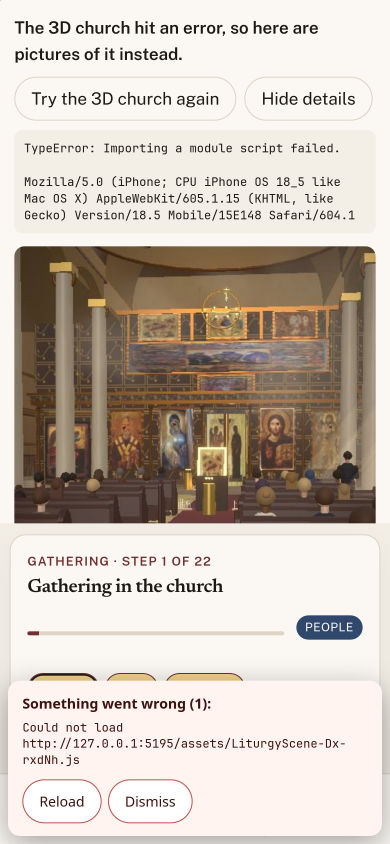
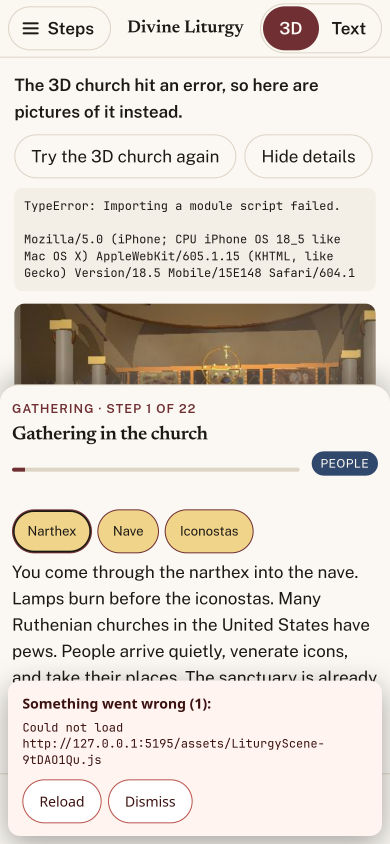
Docs and screenshots for the phone sheet layout (Pass 10) and npm run phone:touch

diff --git a/docs/ITERATION_LOG.md b/docs/ITERATION_LOG.md
@@ -276,8 +276,53 @@ are pixel-identical to main, and `npm run perf` gives main's draw calls and tria
 Splitting the icons into their own Suspense boundary had first cost 115 desktop shadow casters; the
 pass that flags shadows now runs again when the icons and frescoes arrive.
 
-Pictures in `docs/iterations/mobile/`: `before-load-10s.jpg` and `before-step-01.jpg` (main),
-`after-load-1.5s.jpg`, `after-step-01.jpg`, `after-step-06.jpg`, `after-step-13.jpg`,
-`after-step-19.jpg`, `after-free-look.jpg`, `after-text-panel.jpg`, the fault cases
-(`fault-no-webgl.jpg`, `fault-chunk-blocked.jpg`, `fault-runtime-error.jpg`, `fault-context-lost.jpg`)
-and `debug.jpg`.
+The phone layout described here was replaced in Pass 10; `before-load-10s.jpg` and `before-step-01.jpg`
+in `docs/iterations/mobile/` are main, the rest show the Pass 10 layout.
+
+## Pass 10: the church with the words over it
+
+Reported from the phone: the page opened into the 3D church, a finger on it would not scroll, and the
+Next button and the navigation could not be reached. The Pass 9 layout (church at 62% of the height,
+words under it) still made the page scroll past the picture to read and navigate.
+
+- The 3D view is the screen under a top bar: the church fills it, and the step's words sit in a sheet
+  over its bottom edge (`after-step-01.jpg`). Back, Next, and the step title are the sheet's bottom row,
+  under the thumb; tapping the title closes the words to that one row (`after-sheet-closed.jpg`). The
+  words scroll inside the sheet.
+- The top bar is outside the picture, so it never turns the view: **Steps** opens every step by part of
+  the Liturgy plus links to the 3D church, the step's words, the places, and About
+  (`after-steps-menu.jpg`); **3D / Text** switches to an ordinary scrolling page of words, places and
+  outline with Back and Next fixed at the bottom (`after-text-view.jpg`, `after-text-scrolled.jpg`). In
+  Text the church stays loaded but stops drawing.
+- The picture is the one drag area (`touch-action: none` only there). In Follow liturgy a finger now
+  looks around from the camera, and Next turns the view back to the step (`after-drag-to-look.jpg`); a
+  hint says so until the first touch. Mouse drags are unchanged. Free look walks as before, with the
+  joystick above the bar (`after-free-look.jpg`).
+- Nothing locks the body: the 3D view is exactly one screen tall; the sheet and the menu scroll
+  themselves with `overscroll-behavior: contain`. Expand is gone on phones, since the 3D view is already
+  full screen; desktops keep it.
+- Every control is at least 44 px (Back and Next 52 px), and the bar, the sheet and the menu pad for the
+  notch, the home indicator and the sides in landscape (`after-landscape.jpg`).
+- Found on the way: on narrow screens `.stage-body` is a flex column that aligned its children to the
+  start, so once the church panel held only positioned children it shrank to 0 px wide. The canvas hid
+  it; the no-WebGL fallback showed a blank area until the column was stretched.
+
+`npm run phone:touch` checks this with touches (33 checks, all pass): in Chromium through DevTools touch
+events, which go through `touch-action` and scrolling as a finger does, it drags the church and then
+taps Next, drags from the church onto the sheet and taps Next, swipes the sheet, the menu and the Text
+view, and checks that the body never locks, that every control is on screen and on top, and that
+landscape keeps Next and Steps reachable; WebKit repeats the taps and takes the screenshots.
+
+| iPhone profile, Fast 3G | main | Pass 9 | Pass 10 |
+| --- | --- | --- | --- |
+| first content | 10.1 s | 1.8 s | 1.8 s |
+| tap on Next answered | 27.9 s | 3.0 s | 2.1 to 5.2 s |
+| first 3D frame | 13.0 s | 5.0 s | 5.1 s |
+| scene ready | 27.3 s | 10.1 s | 10.0 s |
+| JS sent | 1509 KB | 371 KB | 373 KB |
+| fps (WebKit, host GPU) | 16.4 | 20.3 | 15.0 |
+
+The tap is answered in 14 ms once dispatched; when it lands depends on when the 3D chunk is being parsed,
+which varied between runs. The frame rate is lower because the church now covers the whole screen (585×1179
+drawing pixels against 585×784). Desktop is unchanged: `npm run perf` gives the same 446 / 195 / 314 draw
+calls, and the desktop page keeps its header pager, side list and Expand.

diff --git a/docs/TEST_LAB.md b/docs/TEST_LAB.md
@@ -17,6 +17,7 @@ npx playwright install chromium webkit   # once; WebKit is only for the phone ch
 | `npm run peek` | One-off captures from any camera position, for close inspection |
 | `npm run perf` | Production build, then load time and FPS against budgets |
 | `npm run phone` | The real page as an iPhone over Fast 3G: load milestones, bytes, fps, screenshots |
+| `npm run phone:touch` | Real touches on the phone layout: drag the church, then reach Next, the sheet, the menu, Text |
 | `npm run phone:faults` | No WebGL, blocked chunks, errors, lost context: each must show words, not a blank page |
 | `npm run stills` / `npm run small-art` | Regenerate the fallback pictures and the phones' half-size art |
 | `npm run check` | Type check, unit tests, production build (the gate before a commit) |
@@ -163,6 +164,13 @@ npm run phone -- --dist=.tmp/base-dist --gzip=0 --label=baseline   # an older bu
 `npm run phone:faults` breaks the page on purpose in WebKit at 390×844: no WebGL2, the 3D chunk blocked,
 the main script blocked, a thrown runtime error, a lost WebGL context, and `?debug=1`. Each case must end
 in readable words on screen and exits 1 if one does not.
+
+`npm run phone:touch` drives the phone layout with touches and exits 1 if a check fails: in Chromium it
+sends DevTools touch events (they go through `touch-action` and scrolling like a finger), drags the church
+and then taps Next, drags onto the sheet, swipes the sheet, the Steps menu and the Text view, and checks
+that the body never locks scrolling, that each control is on screen, on top, and at least 44 px, and that
+landscape keeps Next and Steps reachable. WebKit, which has no touch-move API, repeats the taps and takes
+the screenshots in `qa/phone/<stamp>-touch/`.
 
 ### What the emulation cannot prove
 

diff --git a/README.md b/README.md
@@ -51,7 +51,7 @@ Service name `lojo-byzantine-liturgy-viz`, region `us-central1`, minimum instanc
 - Gold light on the floor marks the places for the current step. Click a floor, or its name under the view, to read what that place is.
 - During the Little Entrance the deacon carries the Gospel book out the north deacon door, through the nave, and back through the Royal Doors. During the Great Entrance the deacon leads and the priest follows with the gifts from the table of preparation to the altar. A path on the floor shows the route.
 
-- On a phone the church sits above the step text, and **Back** and **Next** stay at the bottom of the screen. The page scrolls over the church while you follow the liturgy; in Free look the church takes the touches. **Expand** makes the church fill the screen.
+- On a phone the church fills the screen and the step's words sit in a sheet over its bottom edge, with **Back** and **Next** under your thumb. Tap the step title to close the words to one row, or open them again. Drag the church to look around; **Next** turns the view back to the step. The top bar has **Steps** (every step, plus the page's sections) and **3D / Text**: Text is a plain scrolling page of the step, the places, and the outline.
 - If the phone cannot run the 3D church (no WebGL2, or the GPU gives up), the page shows a picture of each step with its text and the icons instead, plus **Try again** and the error.
 - Add `?debug=1` to the address to see the GPU, the quality level chosen and why, the frame rate, load times, and any errors, with a Copy button. That text is what to send when the page misbehaves on a device.
 
